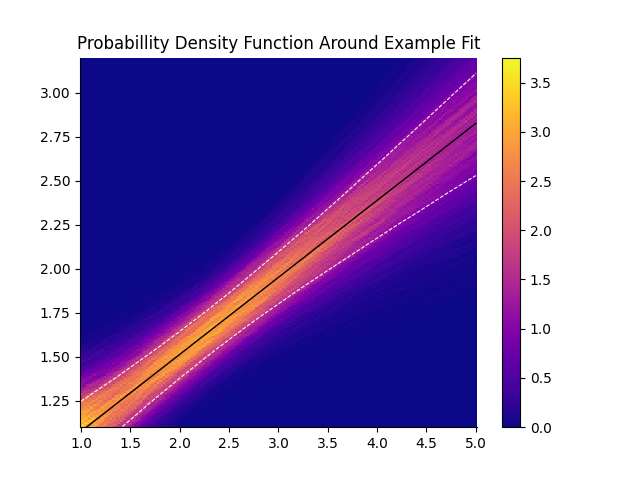
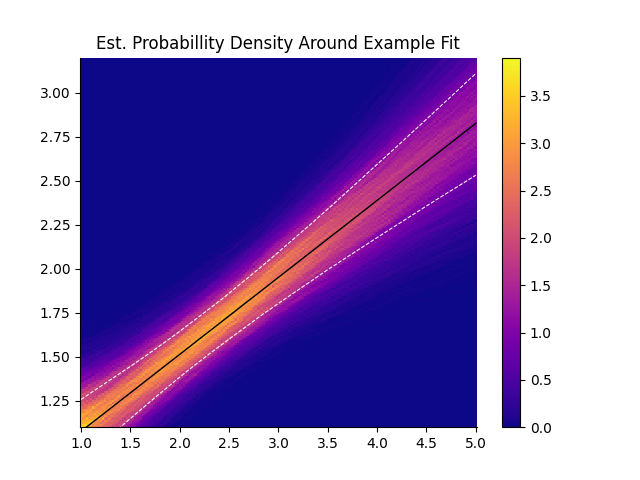
Polished up Docs a bit: - fixed some grammar and typos in manual - moved function documentation to a separate file - Removed technical details from README - gave PD-Plot a more accurate title (Probabillity Density Function -> Estimated Probabillity Density)

diff --git a/docs/manual.md b/docs/manual.md
@@ -40,15 +40,15 @@ from matplotlib import pyplot as plt
 fig, ax = plot_fit(x, y, f, params, lower_conf, upper_conf, xerror=dx, yerror=dy)
 plt.show()
 ```
-Note that the toolkit does not automatically display the fitted values. Instead the figure and axis-objects are returned.
+Note that the fitted function is not automatically displayed. Instead the figure and axis-objects are returned.
 
 ![Example Graph](./img/example_fit.png)
 
 ## Errors and Uncertainties
 
-Understanding how the tools we use work with and calculate errors and uncertainties is a vital part of judging and quantifying the characteristics of our work. The Toolkit-curve-fit uses scipy's `curve_fit()` function which handles the fitting process as well as the calculation of errors and correlation of the fitted parameters. You can reference the modules [documentation](https://docs.scipy.org/doc/scipy/reference/generated/scipy.optimize.curve_fit.html) for a detailed explanation.
+Understanding how the tools we use work with and calculate errors and uncertainties is a vital part of judging and quantifying the quality of our work. The toolkit-curve-fit uses scipy's `curve_fit()` function which handles the fitting process as well as the calculation of errors and correlation of the fitted parameters. You can reference the modules [documentation](https://docs.scipy.org/doc/scipy/reference/generated/scipy.optimize.curve_fit.html) for a detailed explanation.
 
-### Covaraince Matrix and Sigma
+### Covariance Matrix and Sigma
 
 SciPy returns a [covariance matrix](https://en.wikipedia.org/wiki/Covariance) along with the optimal parameters of the fitted function. In [error propagation](https://en.wikipedia.org/wiki/Propagation_of_uncertainty) according to gauß we assume that the measured values are uncorrelated. In the real world this is usually not the case.
 
@@ -62,7 +62,7 @@ Further the documentation notes:
 
 > How the sigma parameter affects the estimated covariance depends on `absolute_sigma` argument, as described above.
 
-The `absolute_sigma` determines the interpretation of and effect the data errors have on the variance and covariance of the fitted parameters. By default the `absolute_sigma = False` which means that the errors are only used as weights, i.e., as hints how important a point should be in the least-squares computation. To compute the covariance matrix, `scipy.optimize.curve_fit` then estimates the actual error from the average defiation from the optimized curve. [(Read More Here)](https://wwwstaff.ari.uni-heidelberg.de/tsapras/pub/pycourse/15.html) When fitting data with absolute errorbars as can be seen in the examples provided the `absolute_sigma` parameter should be set to `True` via the `**kwargs`.
+The `absolute_sigma` determines the interpretation of and effect the data errors have on the variance and covariance of the fitted parameters. By default the `absolute_sigma = False` which means that the errors are only used as weights, i.e., as hints how important a point should be in the least-squares computation. To compute the covariance matrix, `scipy.optimize.curve_fit` then estimates the actual error from the average deviation from the optimized curve. [(Read More Here)](https://wwwstaff.ari.uni-heidelberg.de/tsapras/pub/pycourse/15.html) When fitting data with absolute errorbars as can be seen in the examples provided the `absolute_sigma` parameter should be set to `True` via the `**kwargs`.
 
 ```python
 params, cov, lower_conf, upper_conf = curve_fit(model, x, y, yerror=dy, absolute_sigma = True)
@@ -74,124 +74,16 @@ Also note that only the y-error affects the uncertainty
 
 To estimate the confidence interval the fitted parameters are then resampled using their estimated means and covariance matrix. The number of resamples can be set via the `resamples = 5000` parameter.
 
-
 ![PDF of Example Graph](./img/example_fit_pdf.png)
 
 For each point on the x-axis the fitted function is calculated for each of the resampled parameter sets and using the `numpy.percentile` function an upper and a lower threshold for the confidence interval is estimated. By default this function is set so that exactly 1/6 of the resampled points lie above the interval and 1/6 lie below it. Therefore 2/3 of the resampled points lie between the interval thresholds, which corresponds to a 1-sigma interval.
 
 This method is often referred to as ["bootstrapping"](https://en.wikipedia.org/wiki/Bootstrapping_(statistics)) and presents a simple example of this method.
 
-By default the confidence interval is estimated at each x-position provided, however this may cause issues of resolution when few datapoints are provided or the datapoints are non-uniformally distributed along the x-axis, or it may be computanionally expensive for large datasets. When `curve_fit`is provided a `confidence_resolution: int` parameter, the number of points provided are generated between the highest and lowest point on the x-axis and used as the x-axis instead.
+By default the confidence interval is estimated at each x-position of the data, however this may cause issues of resolution when datapoints are sparse or non-uniformly distributed along the x-axis, or it may be computanionally expensive for large datasets. When a `confidence_resolution: int` parameter is set in `curve_fit`, that number of points is generated between the highest and lowest point on the x-axis and used as the x-axis instead.
 
 ```python
-resampled_points = np.linspace(min(xdata), max(xdata), confidence_resolution) 
+resampled_x_axis = np.linspace(min(xdata), max(xdata), confidence_resolution) 
 ```
 
 Note that the `confidence_resolution` must be provided to both `curve_fit` and `plot_fit`  
-
-
-## Code Documentation
-
-By separating the fitting functionality from the display options a user can utilize the parts independently of each other.
-
-### Using the Fitting Functionality
-
-To fit a dataset call
-```python
-curve_fit(model, xdata: np.array, ydata: np.array, yerror = None, resamples = 5000, **kwargs)
-```
-
-| Parameters | | |
-|----------|----------|-----------------|
-| **Name** | **Type** | **Description** |
-| model    | function | Function to be fitted. Must take `xdata` as a first argument and then an arbitrary number of fit parameters.|
-| xdata    | np.array | The independent variable where the data is measured. Each element should be float convertible if it is an array like object.
-| ydata    | np.array | The dependent data, a length M array - nominally f(xdata, ...)
-| yerror   | np.array | (optional) Determines the uncertainty in ydata. Pass absolute values.
-| resamples| int      | (optional) Number of samples to be generated in parameter space for bootstrapping.
-| **kwargs | any      | (optional) Parameters to be passed on to `scipy.optimize.curve_fit`
-
-| Returns | | |
-|----------|----------|-----------------|
-| **Name** | **Type** | **Description** |
-| params   | np.array | List of optimal parameters. Can be separated by `p1, p1, ..., pn = params`
-| cov      | np.array | Covariance Matrix of parameters as provided by `scipy.optimize.curve_fit`. Standard deviations can be calculated by `sigma = np.sqrt(np.diagonal(cov))`
-| lower_conf | np.array | Absolute y-values of lower edge of 1-sigma confidence interval.|
-| upper_conf | np.array | Absolute y-values of upper edge of 1-sigma confidence interval.
-
-#### Using Custom Graphics
-
-To generate your own plot you can use the returned values of `curve_fit`. Using a defined model `f(x, *params)`:
-
-```python
-params, cov, lower_conf, upper_conf = curve_fit(f, x, y)
-#calculate standard deviations for possible later use
-standard-deviations = np.sqrt(np.diagonal(cov))
-
-from matplotlib import pyplot as plt
-#scatter data
-plt.scatter(x, y)
-# plots the fitted parameters
-plt.plot(x, f(x, *params), color = "black")
-#plots the confidence interval
-plt.plot(x, lower_conf, color = "red")
-plt.plot(x, upper_conf, color = "red")
-#Display
-plt.show()
-```
-
-### Calculate Confidence Interval for an Existing Fit
-
-Given already fitted parameters and a covariance matrix a confidence interval can be calculated using `confidence_interval(model, xdata: np.array, params: np.array, cov: np.array, resamples: int)`
-
-| Parameters | | |
-|----------|----------|-----------------|
-| **Name** | **Type** | **Description** |
-| model    | function | Model fitted to data
-| xdata    | np.array | The independent variable at which the confidence interval is to be calculated.
-| params   | np.array | Fitted parameters passed onto `model`.
-| cov      | np.array | Covariance matrix of `params`
-| resamples| int      | Number of resamples to be calculated.
-
-| Returns | | |
-|----------|----------|-----------------|
-| **Name** | **Type** | **Description** |
-| lower_conf | np.array | Absolute y-values of lower edge of 1-sigma confidence interval.|
-| upper_conf | np.array | Absolute y-values of upper edge of 1-sigma confidence interval.
-
-Example:
-Given a model `f(x, *params)`
-```python
-from scipy.optimize import curve_fit
-params, cov = sc_curve_fit(f = f, xdata = xdata, ydata = ydata, sigma = yerror, absolute_sigma=True, **kwargs) 
-lower_conf, upper_conf = confidence_interval(model, xdata, params, cov, resamples)
-```
-Errors relative to the fitted function can be calculated as thus:
-```python
-sigma_pos = upper_conf - f(x, *params)
-sigma_neg = f(x, *params) - lower_conf
-```
-So that the fitted value `x[i]` are
-```python
-print(f"f({x[i]:.2e}) = {f(x[i], *params):.2e} (+{sigma_pos[i]:.2e}/-{sigma_neg[i]:.2e})")
-```
-
-### Generating Thresholds
-
-Given a bootstrapped distribution generate a custom interval for the confidence interval.
-
-Call `generate_thresholds(data, lower_frac=1/6, upper_frac=5/6)`
-
-| Parameters | | |
-|----------|----------|-----------------|
-| **Name** | **Type** | **Description** |
-| data     | np.array | At a defined point x give the y value for all points in parameter space.
-| lower_frac | float  | Fraction of data below lower threshold
-| upper_frac | float  | Fraction of data below upper threshold
-
-
-| Returns | | |
-|----------|----------|-----------------|
-| **Name** | **Type** | **Description** |
-| lower_threshold | float | Point defined by `lower_frac` 
-| upper_threshold | float | Point defined by `upper_frac`

diff --git a/docs/functions.md b/docs/functions.md
@@ -1,0 +1,106 @@
+
+# Code Documentation
+
+By separating the fitting functionality from the display options a user can utilize the parts independently of each other.
+
+## Using the Fitting Functionality
+
+To fit a dataset call
+```python
+curve_fit(model, xdata: np.array, ydata: np.array, yerror = None, resamples = 5000, **kwargs)
+```
+
+| Parameters | | |
+|----------|----------|-----------------|
+| **Name** | **Type** | **Description** |
+| model    | function | Function to be fitted. Must take `xdata` as a first argument and then an arbitrary number of fit parameters.|
+| xdata    | np.array | The independent variable where the data is measured. Each element should be float convertible if it is an array like object.
+| ydata    | np.array | The dependent data, a length M array - nominally f(xdata, ...)
+| yerror   | np.array | (optional) Determines the uncertainty in ydata. Pass absolute values.
+| resamples| int      | (optional) Number of samples to be generated in parameter space for bootstrapping.
+| **kwargs | any      | (optional) Parameters to be passed on to `scipy.optimize.curve_fit`
+
+| Returns | | |
+|----------|----------|-----------------|
+| **Name** | **Type** | **Description** |
+| params   | np.array | List of optimal parameters. Can be separated by `p1, p1, ..., pn = params`
+| cov      | np.array | Covariance Matrix of parameters as provided by `scipy.optimize.curve_fit`. Standard deviations can be calculated by `sigma = np.sqrt(np.diagonal(cov))`
+| lower_conf | np.array | Absolute y-values of lower edge of 1-sigma confidence interval.|
+| upper_conf | np.array | Absolute y-values of upper edge of 1-sigma confidence interval.
+
+### Using Custom Graphics
+
+To generate your own plot you can use the returned values of `curve_fit`. Using a defined model `f(x, *params)`:
+
+```python
+params, cov, lower_conf, upper_conf = curve_fit(f, x, y)
+#calculate standard deviations for possible later use
+standard-deviations = np.sqrt(np.diagonal(cov))
+
+from matplotlib import pyplot as plt
+#scatter data
+plt.scatter(x, y)
+# plots the fitted parameters
+plt.plot(x, f(x, *params), color = "black")
+#plots the confidence interval
+plt.plot(x, lower_conf, color = "red")
+plt.plot(x, upper_conf, color = "red")
+#Display
+plt.show()
+```
+
+## Calculate Confidence Interval for an Existing Fit
+
+Given already fitted parameters and a covariance matrix a confidence interval can be calculated using `confidence_interval(model, xdata: np.array, params: np.array, cov: np.array, resamples: int)`
+
+| Parameters | | |
+|----------|----------|-----------------|
+| **Name** | **Type** | **Description** |
+| model    | function | Model fitted to data
+| xdata    | np.array | The independent variable at which the confidence interval is to be calculated.
+| params   | np.array | Fitted parameters passed onto `model`.
+| cov      | np.array | Covariance matrix of `params`
+| resamples| int      | Number of resamples to be calculated.
+
+| Returns | | |
+|----------|----------|-----------------|
+| **Name** | **Type** | **Description** |
+| lower_conf | np.array | Absolute y-values of lower edge of 1-sigma confidence interval.|
+| upper_conf | np.array | Absolute y-values of upper edge of 1-sigma confidence interval.
+
+Example:
+Given a model `f(x, *params)`
+```python
+from scipy.optimize import curve_fit
+params, cov = sc_curve_fit(f = f, xdata = xdata, ydata = ydata, sigma = yerror, absolute_sigma=True, **kwargs) 
+lower_conf, upper_conf = confidence_interval(model, xdata, params, cov, resamples)
+```
+Errors relative to the fitted function can be calculated as thus:
+```python
+sigma_pos = upper_conf - f(x, *params)
+sigma_neg = f(x, *params) - lower_conf
+```
+So that the fitted value `x[i]` are
+```python
+print(f"f({x[i]:.2e}) = {f(x[i], *params):.2e} (+{sigma_pos[i]:.2e}/-{sigma_neg[i]:.2e})")
+```
+
+## Generating Thresholds
+
+Given a bootstrapped distribution generate a custom interval for the confidence interval.
+
+Call `generate_thresholds(data, lower_frac=1/6, upper_frac=5/6)`
+
+| Parameters | | |
+|----------|----------|-----------------|
+| **Name** | **Type** | **Description** |
+| data     | np.array | At a defined point x give the y value for all points in parameter space.
+| lower_frac | float  | Fraction of data below lower threshold
+| upper_frac | float  | Fraction of data below upper threshold
+
+
+| Returns | | |
+|----------|----------|-----------------|
+| **Name** | **Type** | **Description** |
+| lower_threshold | float | Point defined by `lower_frac` 
+| upper_threshold | float | Point defined by `upper_frac`

diff --git a/README.md b/README.md
@@ -17,6 +17,8 @@ This project requires the following modules:
 - matplotlib
 - scipy
 
+It is highly recommended that the user familiarizes themselves with the functionality of these modules first. A rudimentary understanding of `numpy` and `matplotlib.pyplot` is required.
+
 ### Getting Started
 
 To get started find the `fitting_toolkit.py` in the `src` folder and copy it into your project.
@@ -51,11 +53,8 @@ from matplotlib import pyplot as plt
 fig, ax = plot_fit(x, y, f, params, lower_conf, upper_conf, xerror=dx, yerror=dy)
 plt.show()
 ```
-Note that the toolkit does not automatically display the fitted values. Instead the figure and axis-objects are returned.
+Note that the fitted function is not automatically displayed. Instead the figure and axis-objects are returned.
 
 ![Example Graph](./docs/img/example_fit.png)
 
-## Methods Used
-The Toolkit uses "Bootstrapping" to generate the confidence interval. The `curve_fit` function takes the `resamples` parameter, which define how many resamples of the parameters are generated. Default is 5000.
-
-`curve_fit` passes this parameter onto `confidence_interval` which generates the defined number of datapoints in the parameter space. For each datapoint the resulting distribution around each point defined by `xdata` is generated and the thresholds are chosen so that 2/3 of the points are between them.
+For a deeper explanation and tutorials please reference the [documentation](./docs/manual.md/).
